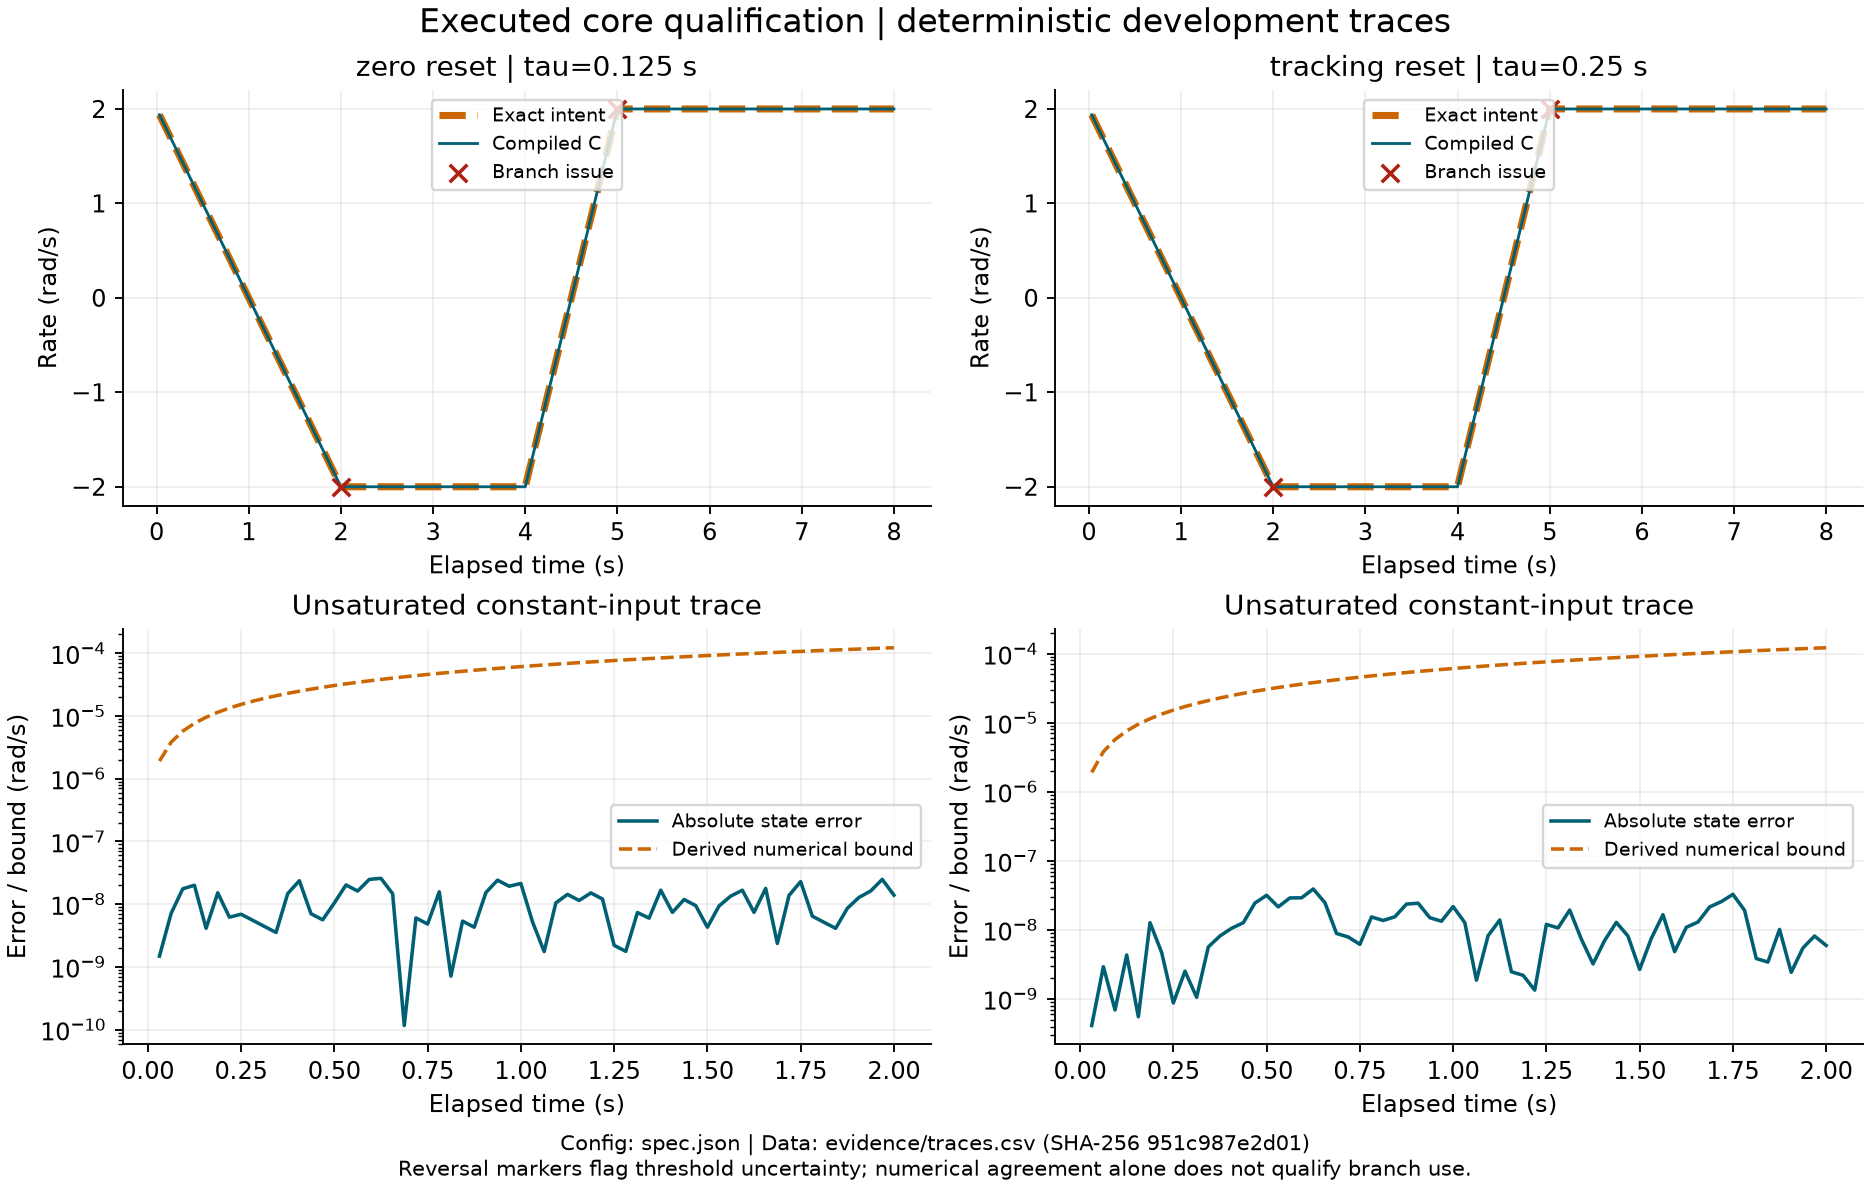
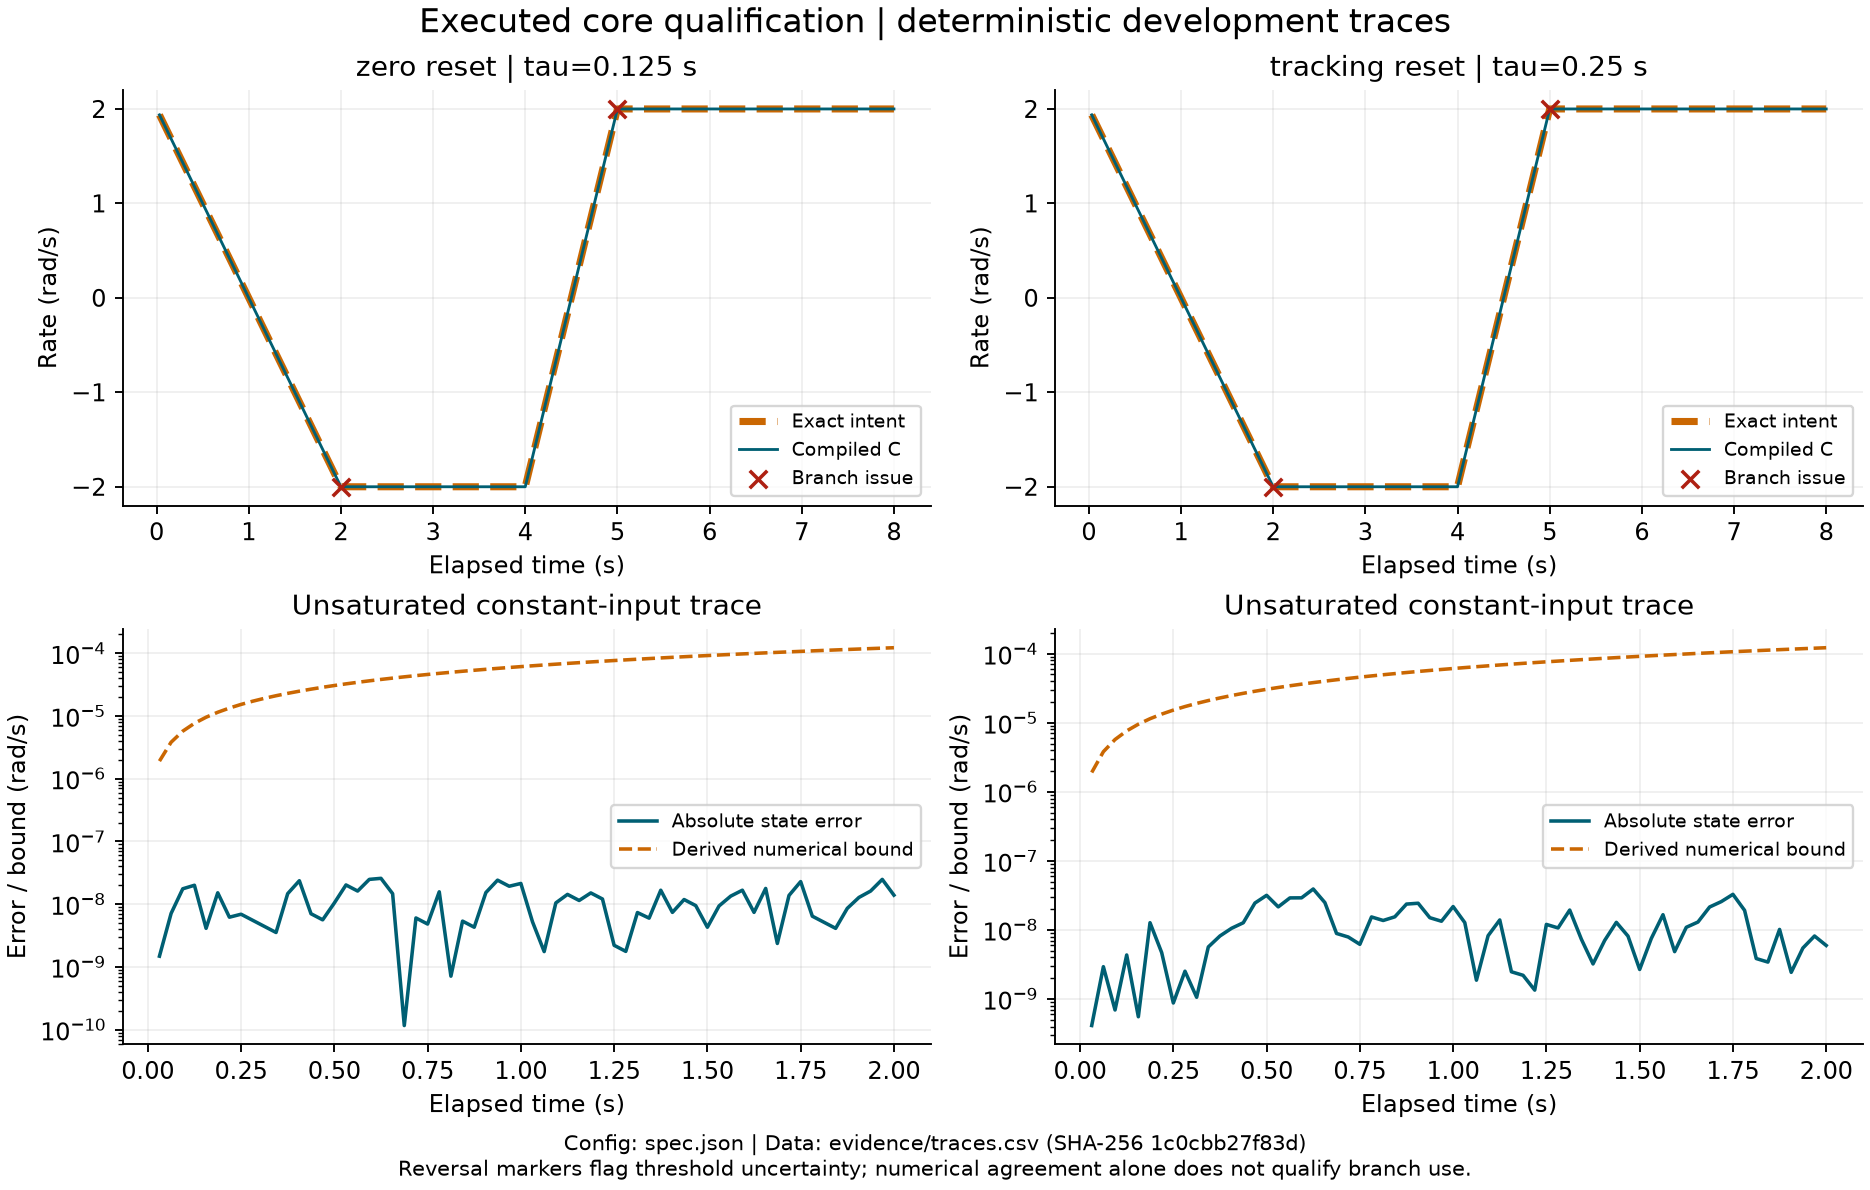
Normalize generated artifact whitespace and finalize readable figure

diff --git a/plot.py b/plot.py
@@ -20,7 +20,7 @@ for col,(variant,cfg) in enumerate(spec['variants'].items()):
     issues=[r for r in trajectory if r['branch_issue']=='True']
     top.scatter([float(r['time_s']) for r in issues],[float(r['c_rad_s']) for r in issues],marker='x',s=55,color='#ae2012',zorder=4,label='Branch issue')
     top.set(title=f"{variant.replace('_',' ')} | tau={cfg['tau']} s",xlabel='Elapsed time (s)',ylabel='Rate (rad/s)')
-    top.legend(fontsize=8,loc='upper center')
+    top.legend(fontsize=8,loc='lower right')
     selected=[r for r in rows if r['variant']==variant and r['trace']=='constant_unsaturated']
     bottom=axes[1,col]
     bottom.plot([float(r['time_s']) for r in selected],[float(r['abs_error_rad_s']) for r in selected],label='Absolute state error',color='#005f73')

diff --git a/qualify.py b/qualify.py
@@ -138,7 +138,7 @@ def main():
                 max_step=max(max_step,float(err_step)); max_sequence=max(max_sequence,float(err_sequence))
                 exact,ref,cstate=expected[0],actual[0],sequence[0]
     with (evidence/'traces.csv').open('w') as f:
-        writer=csv.DictWriter(f,fieldnames=list(rows[0])); writer.writeheader(); writer.writerows(rows)
+        writer=csv.DictWriter(f,fieldnames=list(rows[0]),lineterminator='\n'); writer.writeheader(); writer.writerows(rows)
     result={'status':'numerical agreement passed; branch requirements unresolved',
             'analytic_checks':analytic,'development_sequences':len(traces)*len(spec['variants']),
             'evaluated_steps':len(rows),'independent_ports':None,'c_float32_bit_exact':True,

diff --git a/generate.py b/generate.py
@@ -28,6 +28,10 @@ def generate():
             y = ca.vertcat(state, ca.if_else(ca.logic_or(reset, dt == 0), 0, flag(delta, lo, hi)),
                           ca.if_else(ca.logic_or(reset, dt == 0), 0, flag(reached, -limit, limit)))
             ca.Function(name, [v], [y]).generate(name+'.c', {'casadi_real':'float', 'with_header':True})
+            # Normalize generator whitespace only; arithmetic stays untouched.
+            for suffix in ('.c', '.h'):
+                path = out/(name+suffix)
+                path.write_text('\n'.join(line.rstrip() for line in path.read_text().splitlines())+'\n')
     finally:
         os.chdir(previous)
 
